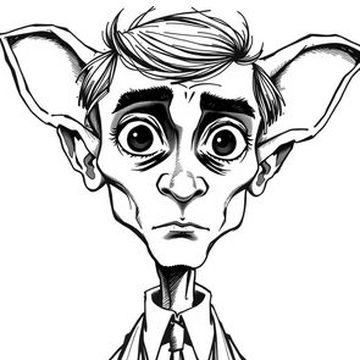
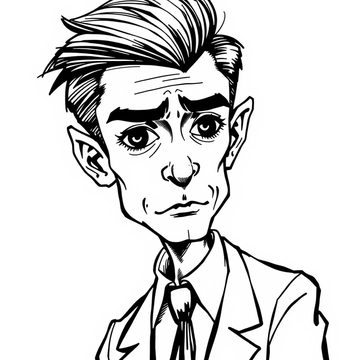
Redraw Kafka and Wilde: the ears had gone goblin and Wilde had two carnations

diff --git a/tools/portraits.py b/tools/portraits.py
@@ -35,9 +35,9 @@ LOOK = {
     "wallace":  "a man in his thirties with long hair under a white bandana, round glasses, unshaven",
     "orwell":   "a gaunt Englishman with a thin moustache, tweed jacket, tired eyes",
     "twain":    "an older man with a full white walrus moustache and wild white hair, white suit",
-    "wilde":    "a heavyset young Victorian dandy with a centre parting, fur-collared coat, a carnation in the buttonhole",
+    "wilde":    "a heavyset young Victorian dandy with long centre-parted hair, fur-collared overcoat, one small flower in the buttonhole",
     "aurelius": "a bearded Roman emperor in a plain toga, curly hair and beard, weary",
-    "kafka":    "a thin young man in a dark suit and stiff collar, enormous dark eyes, ears sticking out",
+    "kafka":    "a thin young man in a dark suit and stiff collar, black hair swept straight back, a narrow face and large dark intense eyes",
     "thompson": "a bald man in aviator sunglasses with a cigarette holder clenched in his teeth, bucket hat",
     "didion":   "a very slight woman in her sixties, dark sunglasses, straight shoulder-length hair, cigarette, cool unsmiling expression",
 }
